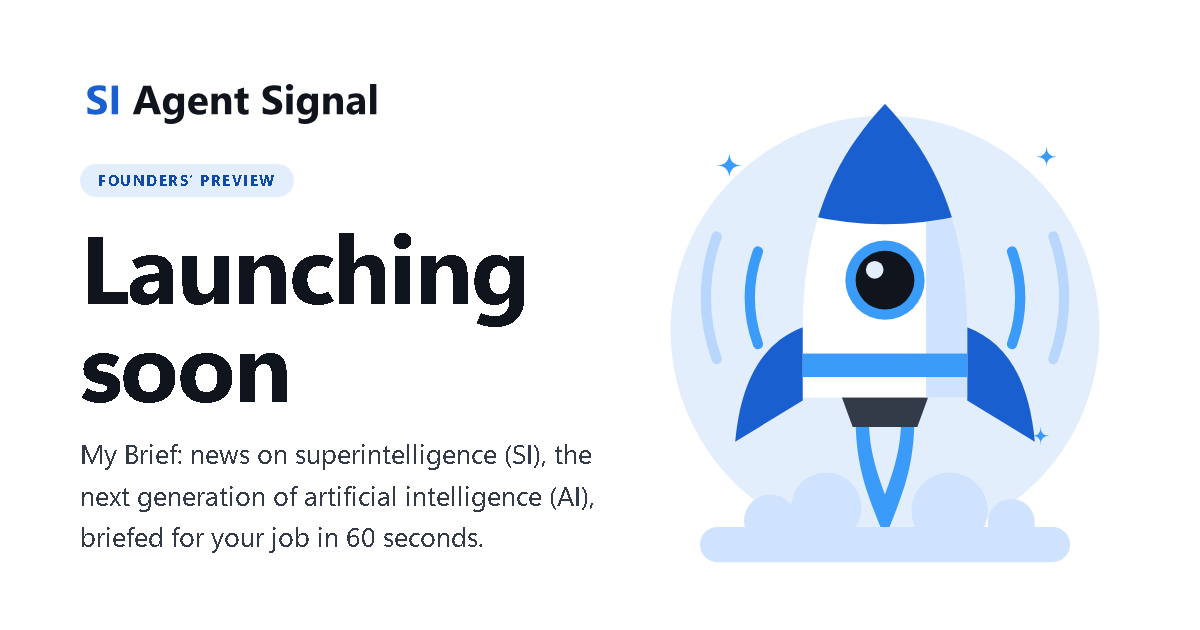
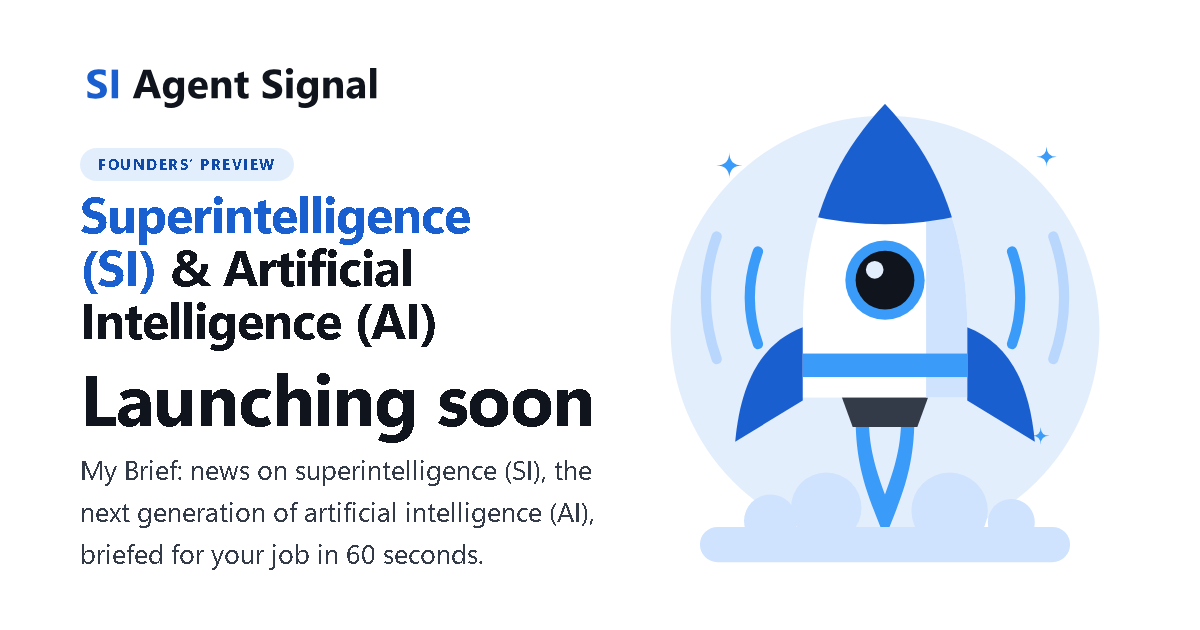
Superintelligence (SI) & Artificial Intelligence (AI) big, bold, front and center (his 10-03 18:59)

Changed region(s): [[0.0617, 0.0905, 0.4933, 0.9048]]

diff --git a/index.html b/index.html
@@ -33,6 +33,7 @@
          (same file name), or drop in a PNG/SVG and change src, width and height here. See README.md. -->
     <a class="brand" href="/" aria-label="SI Agent Signal, home"><img class="logo" id="logo" src="assets/logo.svg" width="193" height="38" alt="SI Agent Signal"></a>
   </header>
+  <p class="terms"><span class="t-si">Superintelligence (SI)</span> <span class="t-amp">&amp;</span> <span class="t-ai">Artificial Intelligence (AI)</span></p>
   <main id="main">
     <div class="stage">
 <svg class="rocket" viewBox="0 0 320 360" aria-hidden="true" focusable="false">
@@ -61,8 +62,6 @@
     </div>
     <div class="copy">
       <p class="pill">Founders&rsquo; Preview</p>
-      <p class="topic">Superintelligence (SI) &middot; Artificial Intelligence (AI)</p>
-
       <h1><span class="sr">SI Agent Signal: </span>Launching soon</h1>
       <p class="lead">My Brief: news on superintelligence (SI), the next generation of artificial intelligence (AI), briefed for your job in 60 seconds.</p>
       <form class="join" id="join" novalidate>

diff --git a/assets/style.css b/assets/style.css
@@ -77,4 +77,8 @@ footer{padding-top:24px;text-align:center;font-size:.875rem;color:var(--muted)}
   footer{text-align:left}
 }
 
-.topic{margin:.2rem 0 .4rem;font-weight:700;font-size:clamp(1.05rem,2.6vw,1.35rem);letter-spacing:.01em;line-height:1.35}
+.terms{margin:16px auto 2px;max-width:24ch;text-align:center;font:800 clamp(1.75rem,7.6vw,3.6rem)/1.06 var(--display);letter-spacing:-.02em;text-wrap:balance;color:var(--ink)}
+.terms .t-si{color:var(--accent)}
+.terms .t-pre{display:block;margin:0 0 .5rem;font:700 clamp(.95rem,2.8vw,1.2rem)/1.3 var(--sans);letter-spacing:.01em;color:var(--ink2)}
+h1{font-size:clamp(2rem,8vw,3rem)}
+@media (min-width:900px){.terms{max-width:none;margin-top:26px}h1{font-size:clamp(2.4rem,3.6vw,3rem)}}
